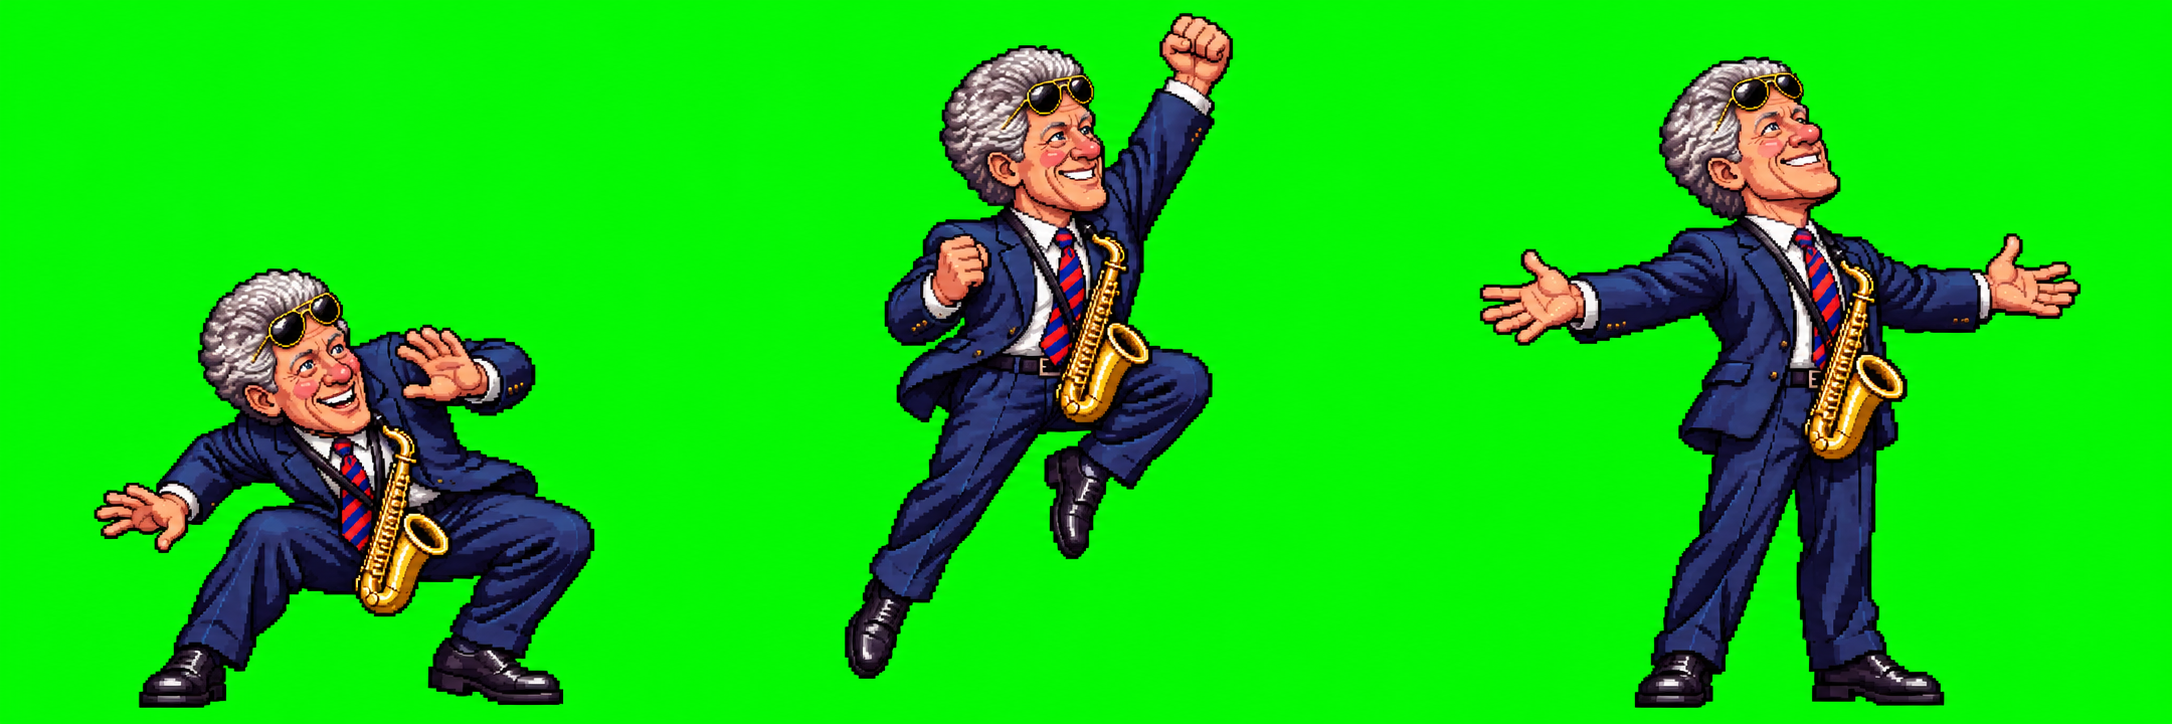
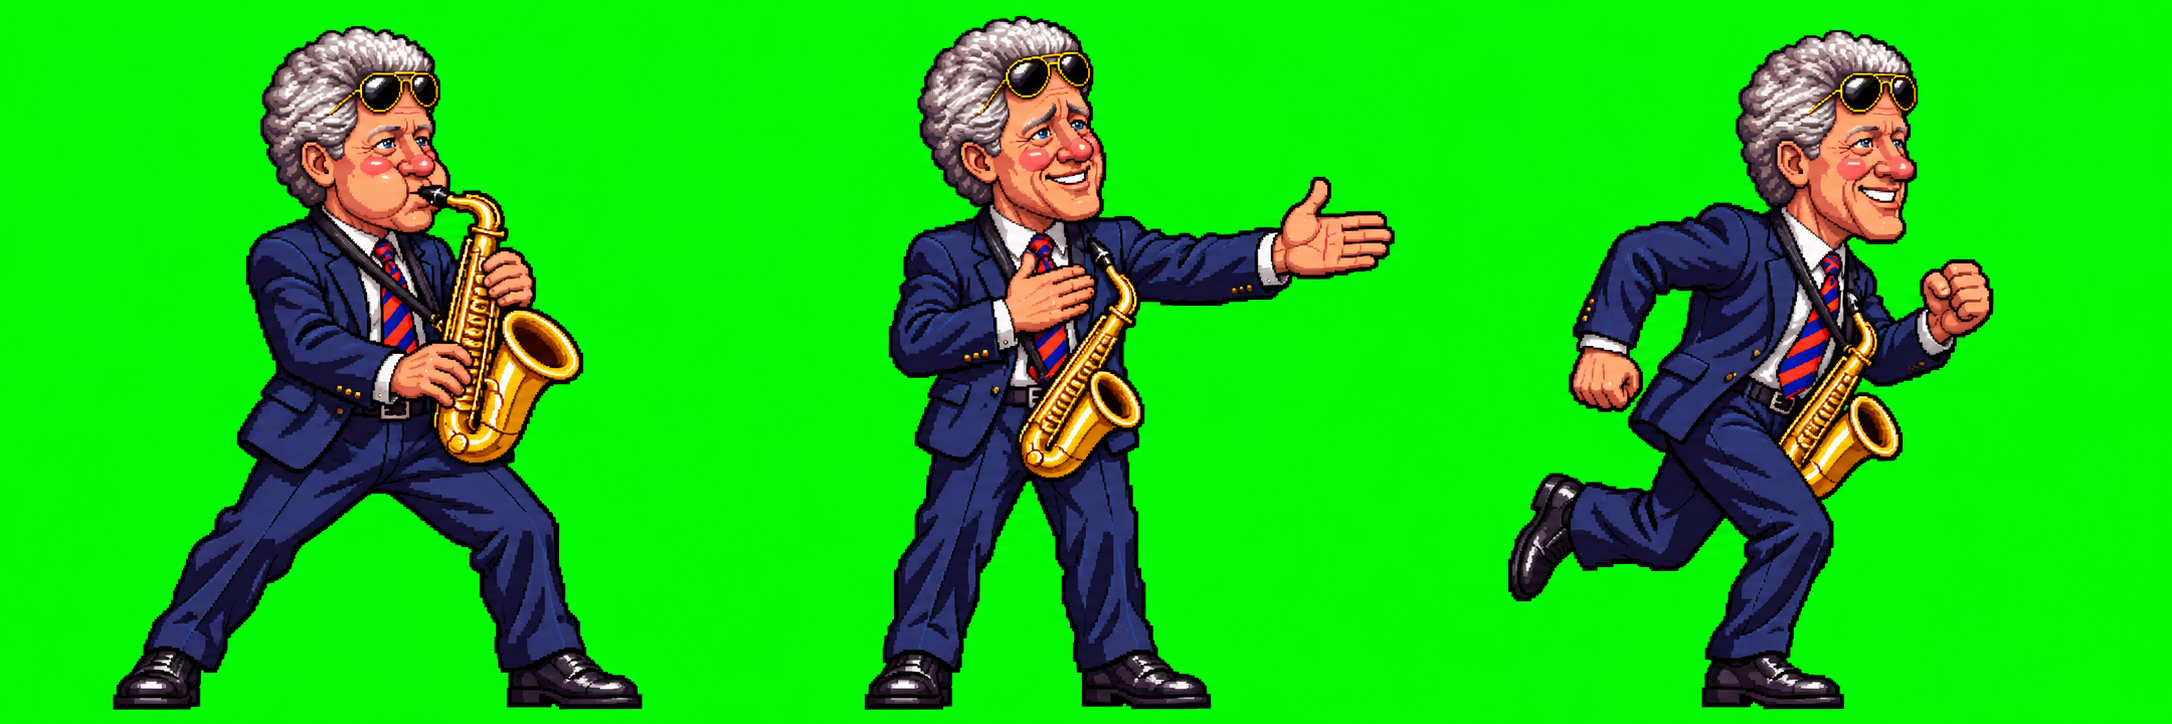
Клинтон: исправленные листы 3, 8, 9 — спецприём с саксофоном, супер, фаталити, концовка
Claude-Session: https://claude.ai/code/session_012zTuWBEuaUwbBpzq3EaXfe

diff --git a/sprites.js b/sprites.js
@@ -231,12 +231,17 @@ window.SPRITES = {
   },
   "punch_0": {
    "src": "assets/sprites/clinton/punch_0.png",
-   "ax": 79,
+   "ax": 78,
    "ay": 281
   },
   "punch": {
    "src": "assets/sprites/clinton/punch.png",
    "ax": 80,
+   "ay": 281
+  },
+  "hook": {
+   "src": "assets/sprites/clinton/hook.png",
+   "ax": 92,
    "ay": 281
   },
   "counter": {
@@ -331,28 +336,48 @@ window.SPRITES = {
   },
   "sp_notes": {
    "src": "assets/sprites/clinton/sp_notes.png",
-   "ax": 90,
-   "ay": 261
+   "ax": 115,
+   "ay": 288
   },
   "special": {
    "src": "assets/sprites/clinton/special.png",
-   "ax": 90,
-   "ay": 261
+   "ax": 115,
+   "ay": 288
+  },
+  "super": {
+   "src": "assets/sprites/clinton/super.png",
+   "ax": 78,
+   "ay": 292
   },
   "sp_jog": {
    "src": "assets/sprites/clinton/sp_jog.png",
-   "ax": 90,
-   "ay": 290
+   "ax": 116,
+   "ay": 286
+  },
+  "sp_jog_2": {
+   "src": "assets/sprites/clinton/sp_jog_2.png",
+   "ax": 109,
+   "ay": 272
   },
   "sp_townhall": {
    "src": "assets/sprites/clinton/sp_townhall.png",
    "ax": 100,
    "ay": 287
   },
-  "super": {
-   "src": "assets/sprites/clinton/super.png",
-   "ax": 148,
-   "ay": 303
+  "item_sax": {
+   "src": "assets/sprites/clinton/item_sax.png",
+   "ax": 47,
+   "ay": 82
+  },
+  "fatality": {
+   "src": "assets/sprites/clinton/fatality.png",
+   "ax": 102,
+   "ay": 236
+  },
+  "ending": {
+   "src": "assets/sprites/clinton/ending.png",
+   "ax": 70,
+   "ay": 299
   }
  }
 };

diff --git a/game.js b/game.js
@@ -1855,7 +1855,7 @@ function spriteKeyFor(p, walkPh) {
 function drawSpriteOf(id, key, flash) {
   const set = SPR[id];
   if (!set) return false;
-  const k = [key, key && key.startsWith("walk") ? "idle" : null, "idle"].find((x) => x && set[x] && IMG[`spr_${id}_${x}`]);
+  const k = [key, key === "ending" || key === "fatality" ? "win" : null, key && key.startsWith("walk") ? "idle" : null, "idle"].find((x) => x && set[x] && IMG[`spr_${id}_${x}`]);
   if (!k) return false;
   const s = set[k], img = IMG[`spr_${id}_${k}`];
   ctx.save(); ctx.imageSmoothingEnabled = false;
@@ -2862,7 +2862,7 @@ function drawEnding() {
   menuBg();
   const d = skinned(D.fighters[G.ladder.pid], skinOf(G.ladder.pid));
   ctx.save(); ctx.translate(W / 2, 470); ctx.scale(1.6, 1.6);
-  drawDummy(d, { cr: 0, lean: 0, arms: "up", legs: "stand", lying: 0, bob: Math.sin(G.time * 6) * 3 }, false, 0);
+  drawDummy(d, { key: "ending", cr: 0, lean: 0, arms: "up", legs: "stand", lying: 0, bob: Math.sin(G.time * 6) * 3 }, false, 0);
   ctx.restore();
   bigText(D.texts.champion, 100, 80, GOLD);
   ctx.font = `24px ${FONT}`; ctx.textAlign = "center"; ctx.fillStyle = WHITE;

diff --git a/tools/build_sprites.py b/tools/build_sprites.py
@@ -48,11 +48,9 @@ OWN = {
         "item_brush": ("12", 2, "item"),
     },
     "clinton": {
-        # листы 08 и 09 пришли с позами Буша — временно берём что подходит, ждём правильные
-        "hook": None,
-        "sp_notes": ("10", 0, "feet"), "special": ("10", 0, "feet"),
-        "sp_jog": ("12", 0, "feet"), "sp_townhall": ("12", 2, "feet"),
-        "super": ("08", 2, "feet"),
+        "sp_notes": ("08", 0, "feet"), "special": ("08", 0, "feet"), "super": ("08", 1, "feet"),
+        "sp_jog": ("08", 2, "feet"), "sp_jog_2": ("12", 1, "feet"), "sp_townhall": ("12", 2, "feet"),
+        "item_sax": ("09", 0, "item"), "fatality": ("09", 1, "feet"), "ending": ("09", 2, "feet"),
     },
 }
 MAP = {}
@@ -62,7 +60,7 @@ for _fid, _own in OWN.items():
         if _v is None: MAP[_fid].pop(_k, None)
         else: MAP[_fid][_k] = _v
 # если в листе есть особая фигура для масштаба — можно переопределить для бойца
-REF_OVERRIDE = {"bush": {"00": (0, 1.08)}, "clinton": {"12": (2, 1.02), "10": (0, 0.93)}}
+REF_OVERRIDE = {"bush": {"00": (0, 1.08)}, "clinton": {"12": (2, 1.02), "10": (0, 0.93), "08": (1, 1.04), "09": (2, 1.06)}}
 
 
 def mask_of(a):
